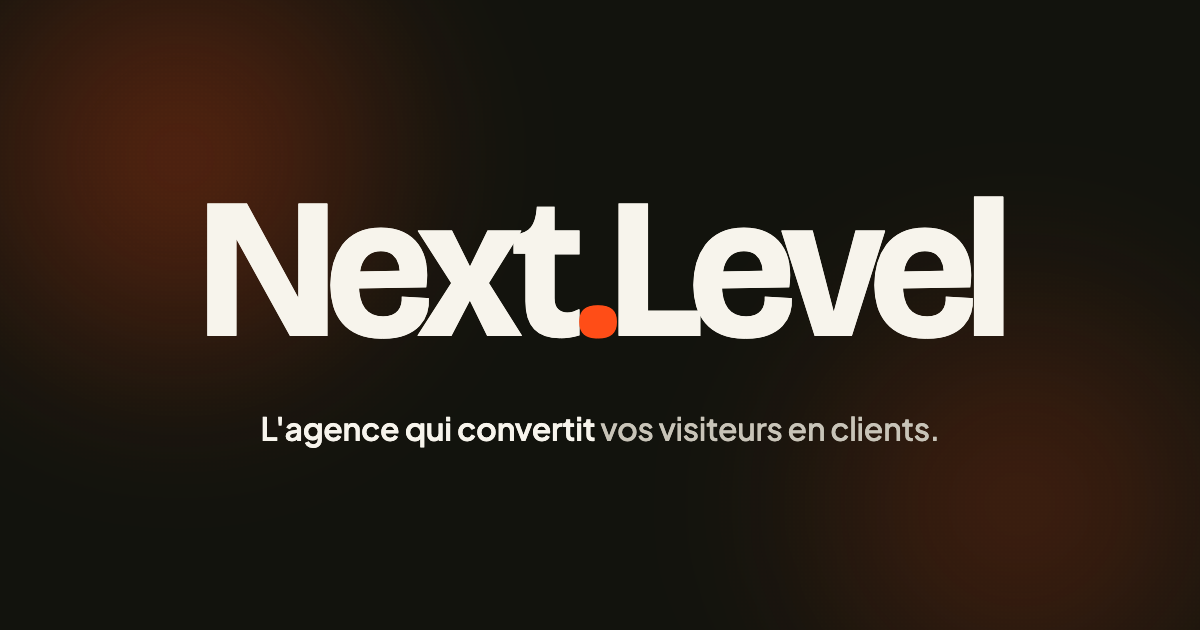
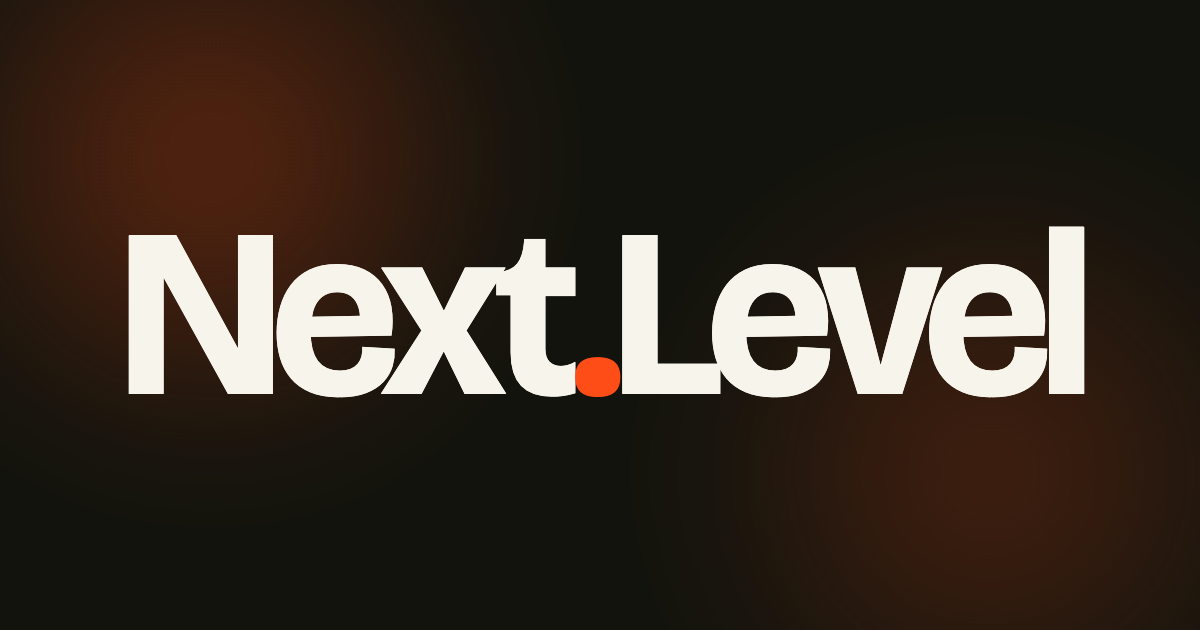
feat(seo): OG card wordmark seul + tagline conversion

Changed region(s): [[0.0925, 0.3016, 0.925, 0.6333], [0.2158, 0.6635, 0.7708, 0.7238]]

diff --git a/app/layout.tsx b/app/layout.tsx
@@ -15,8 +15,8 @@ const plusJakartaSans = Plus_Jakarta_Sans({
   display: 'swap',
 });
 
-const TITLE = 'Next.Level · Sites qui convertissent vos visiteurs en clients';
-const DESCRIPTION = 'Agence web française. Sites haute-conversion, SEO local et outils métier sur mesure. Pour TPE et e-commerce.';
+const TITLE = 'Next.Level · L\'agence qui convertit vos visiteurs en clients';
+const DESCRIPTION = 'On transforme votre expertise en présence digitale performante. Sites web, applications sur mesure et visibilité locale.';
 const SITE_URL = 'https://next-level-agency.fr';
 const OG_IMAGE = `${SITE_URL}/og-image.png`;
 
